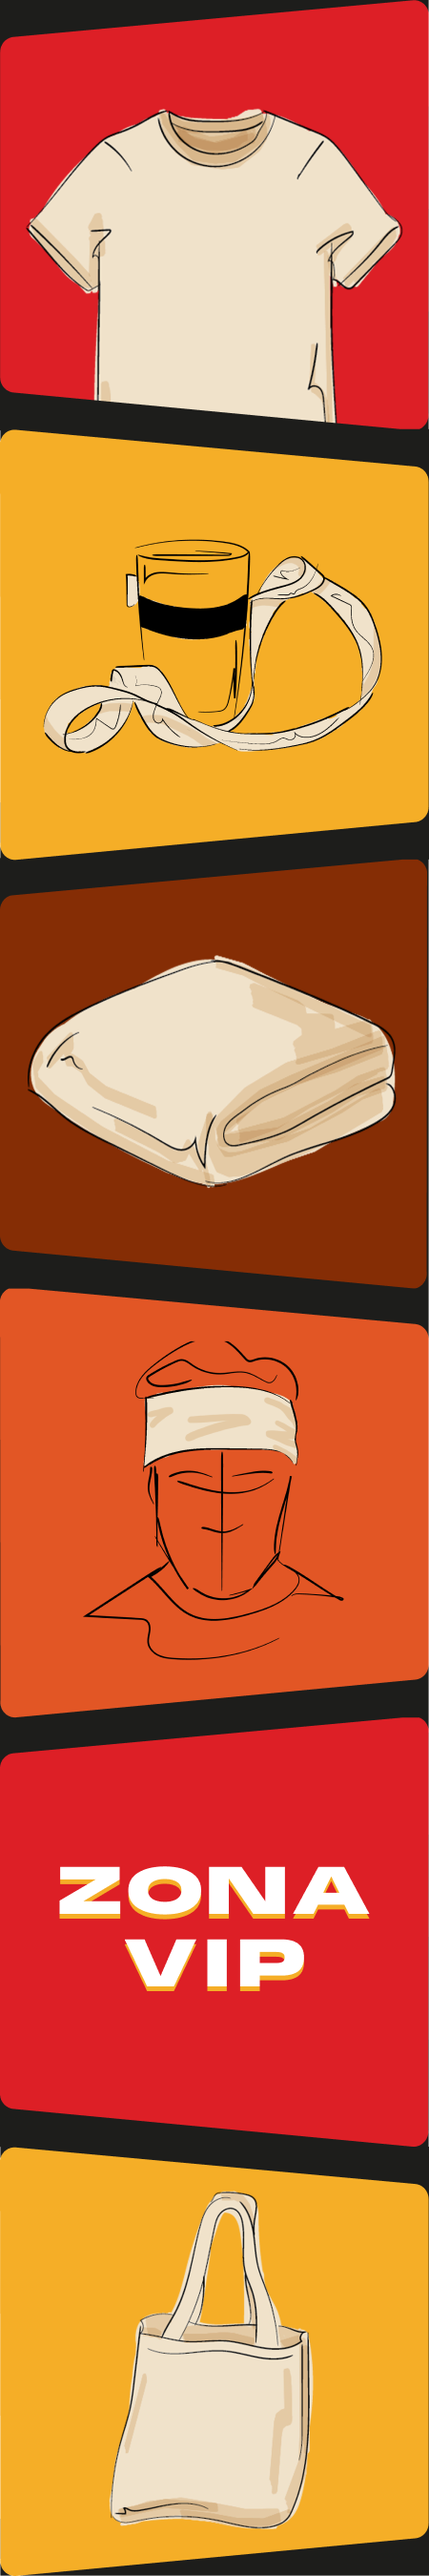
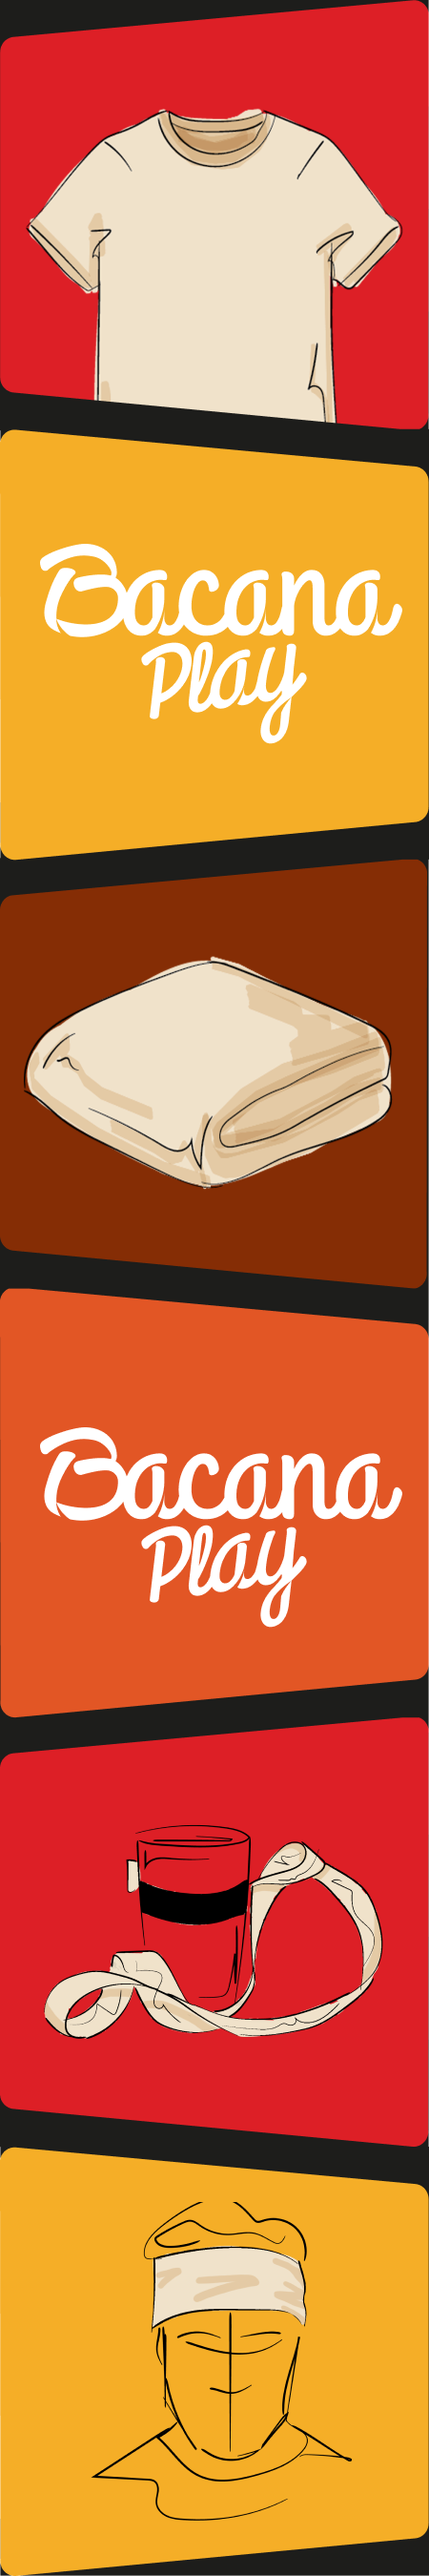
removed vip

diff --git a/src/shared/slot/slot.tsx b/src/shared/slot/slot.tsx
@@ -141,18 +141,6 @@ export const Slot = ({
         const hasOnePrizeWon = prizes.current.length === 1;
         const isBacana = contextConfig.value.user_type === 'bacana';
 
-        const now = new Date();
-
-        const currentHours = now.getHours();
-
-        now.setHours(now.getHours() - 1);
-
-        const formattedDate = now.toISOString().slice(0, 16);
-
-        const response = await axios.get(
-            `${CONFIG.apiUrl}/api/plays?filters[won_premium][$eq]=true&filters[createdAt][$gte]=${formattedDate}`
-        );
-
         // 1. If it is second play, add a 15% chance on every round
         // 2. If non-user, and has won already one prize, can only win on the 4/5th play
         let probability;
@@ -161,12 +149,6 @@ export const Slot = ({
                 probability =
                     myArr.current.length <= 1
                         ? 0
-                        : awards.filter((el) => el.qty > 0 && el.index === 3)
-                              .length > 0 &&
-                          !prizes.current.includes(3) &&
-                          (response?.data?.meta?.pagination?.total < 20 ||
-                              currentHours > 19)
-                        ? 50
                         : 20;
             } else {
                 probability = myArr.current.length <= 3 ? 0 : 20;
@@ -182,18 +164,11 @@ export const Slot = ({
                 ? false
                 : shouldBeTrue(probability);
 
-        let selectedItem = undefined;
-        // In scenarios where customer has won already one prize and he is bacana play,
-        // force to be the VIP AREA
-        if (isBacana && hasOnePrizeWon && !prizes.current.includes(3) && awards.filter((i) => i.index === 3)[0]?.qty > 0) {
-            selectedItem = 3;
-        }
+
 
         const item = await probabilityCalc(
             awards,
-            prizes.current,
-            selectedItem,
-            isBacana
+            prizes.current
         );
 
         const winningSymbolIndex = willAlwaysWin ? item.index : null;
@@ -314,7 +289,7 @@ export const Slot = ({
 
             probArr.current = arrayOfProbabilities(
                 contextConfig.value.num_of_plays,
-                contextConfig.value.num_of_plays === 5
+                contextConfig.value.user_type === 'regular'
                     ? activeSlot.attributes.non_bacana_user_chance
                     : activeSlot.attributes.bacana_user_chance
             );
@@ -365,7 +340,7 @@ export const Slot = ({
                                 <img src={PrizeDesktopBg} alt="" />
                                 <span>
                                     <p className="title">Ganhaste:</p>
-                                    <p>
+                                    <p style={{fontSize: '6rem'}}>
                                         {
                                             myArr.current[
                                                 myArr.current.length - 1

diff --git a/src/helpers/functions.ts b/src/helpers/functions.ts
@@ -54,8 +54,6 @@ type ProbabilityItem = { base_probability: number } & SlotReward;
 export const probabilityCalc = async (
     items: ProbabilityItem[],
     prizesIndexArr: number[],
-    itemIndex?: number,
-    isBacana: boolean
 ): Promise<SlotReward> => {
     // Make sure we only use items that have qty
     const response = await axios.get(
@@ -64,7 +62,7 @@ export const probabilityCalc = async (
         }/api/awards?filters[qty][$gt]=0`
     );
 
-    let filteredItems = response.data.data.map((item) => ({...item.attributes, id: item.id})).filter((i) => (!isBacana ? i.index !== 3 : true));
+    let filteredItems = response.data.data.map((item) => ({...item.attributes, id: item.id}))
 
     if (prizesIndexArr.length > 0) {
         filteredItems = filteredItems.filter(
@@ -98,14 +96,7 @@ export const probabilityCalc = async (
             1000;
     });
 
-    let item = getRandomItem(filteredItems);
-
-    if (typeof itemIndex === 'number') {
-        const selectedItem = filteredItems.find((i) => i.index === itemIndex);
-        if (selectedItem) item = selectedItem;
-    }
-
-    return item;
+    return getRandomItem(filteredItems);
 };
 
 export const configTheme = (
